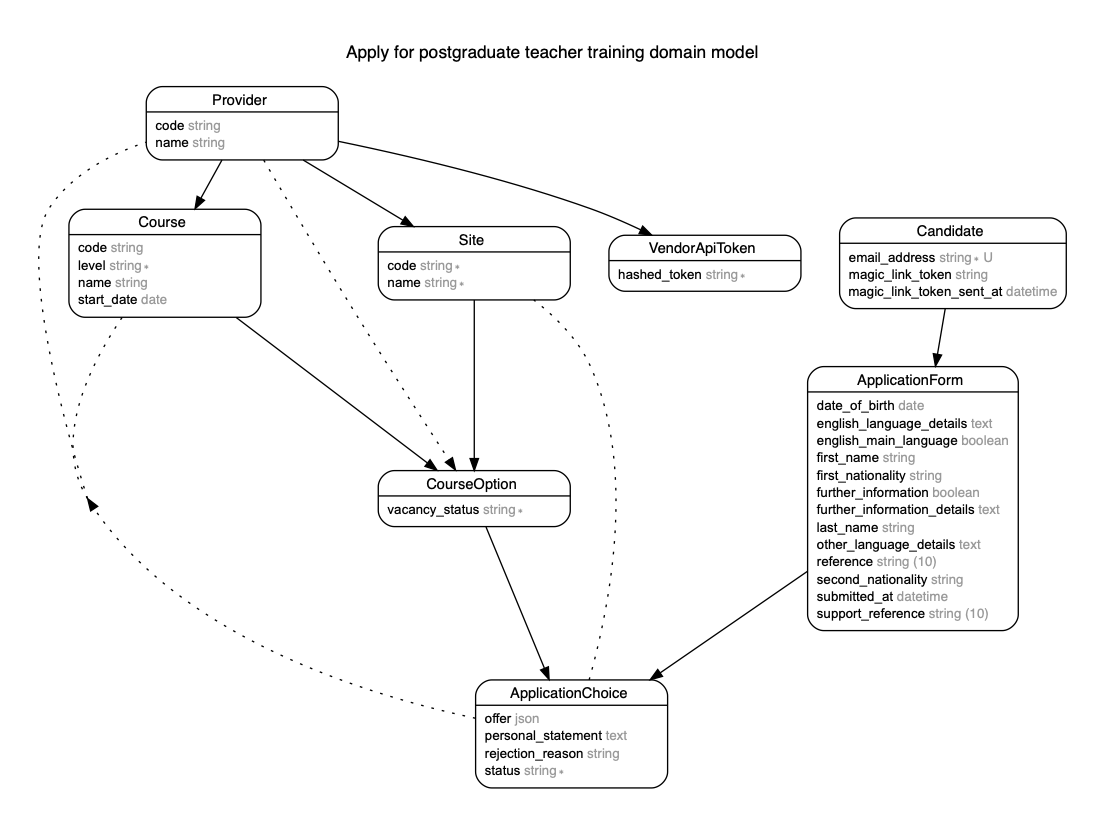
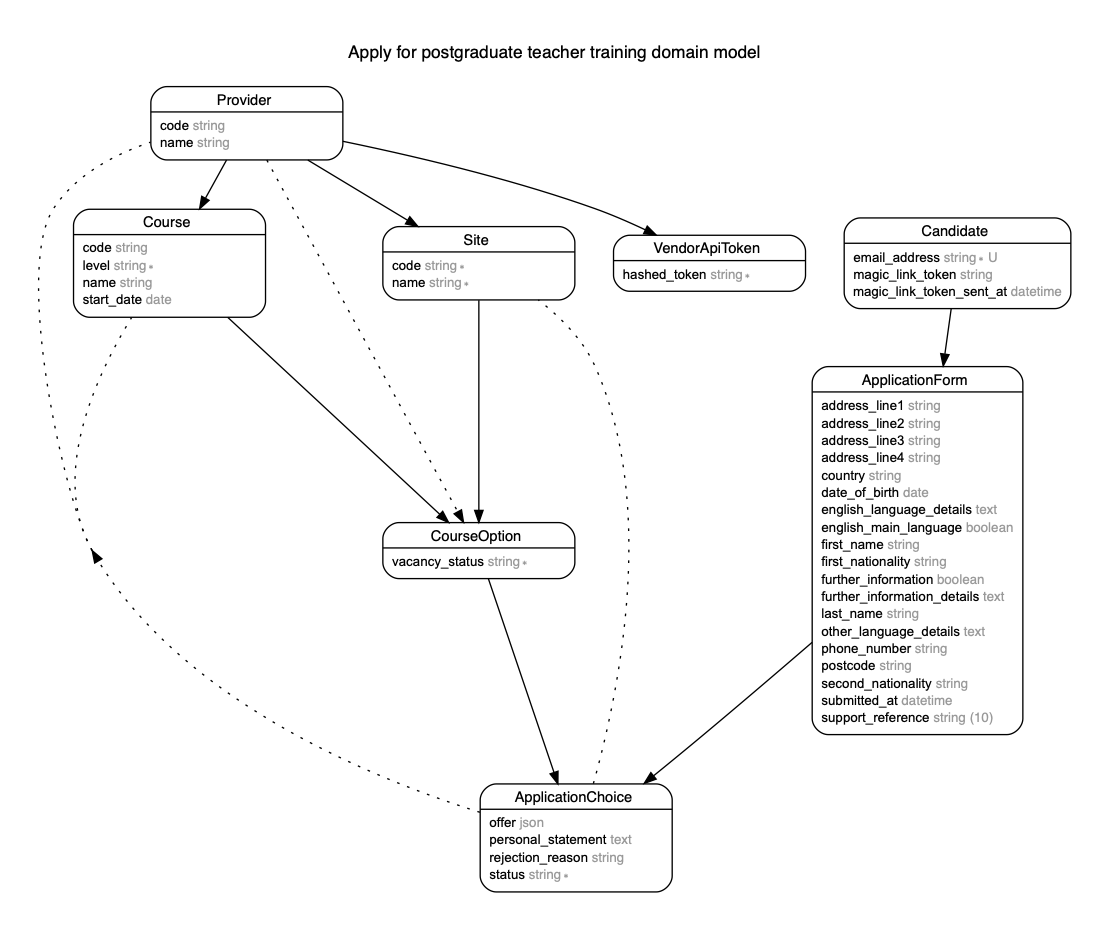
Add contact details to ApplicationForm

diff --git a/spec/factories.rb b/spec/factories.rb
@@ -18,6 +18,14 @@ FactoryBot.define do
       further_information { %w[true false].sample }
       further_information_details { Faker::Lorem.paragraph_by_chars(number: 300) }
 
+      phone_number { Faker::PhoneNumber.cell_phone }
+      address_line1 { Faker::Address.street_name }
+      address_line2 { Faker::Address.street_address }
+      address_line3 { Faker::Address.city }
+      address_line4 { Faker::Address.country }
+      country { Faker::Address.country_code }
+      postcode { Faker::Address.postcode }
+
       transient do
         application_choices_count { 3 }
       end

diff --git a/db/schema.rb b/db/schema.rb
@@ -43,6 +43,13 @@ ActiveRecord::Schema.define(version: 2019_10_23_151050) do
     t.date "date_of_birth"
     t.boolean "further_information"
     t.text "further_information_details"
+    t.string "phone_number"
+    t.string "address_line1"
+    t.string "address_line2"
+    t.string "address_line3"
+    t.string "address_line4"
+    t.string "country"
+    t.string "postcode"
     t.datetime "submitted_at"
     t.string "support_reference", limit: 10
     t.index ["candidate_id"], name: "index_application_forms_on_candidate_id"

diff --git a/db/migrate/20191022130104_add_contact_details_to_application_form.rb b/db/migrate/20191022130104_add_contact_details_to_application_form.rb
@@ -1,0 +1,11 @@
+class AddContactDetailsToApplicationForm < ActiveRecord::Migration[6.0]
+  def change
+    add_column :application_forms, :phone_number, :string
+    add_column :application_forms, :address_line1, :string
+    add_column :application_forms, :address_line2, :string
+    add_column :application_forms, :address_line3, :string
+    add_column :application_forms, :address_line4, :string
+    add_column :application_forms, :country, :string
+    add_column :application_forms, :postcode, :string
+  end
+end

diff --git a/spec/rails_helper.rb b/spec/rails_helper.rb
@@ -32,6 +32,8 @@ end
 
 Timecop.safe_mode = true
 
+Faker::Config.locale = 'en-GB'
+
 RSpec.configure do |config|
   # Remove this line if you're not using ActiveRecord or ActiveRecord fixtures
   config.fixture_path = "#{::Rails.root}/spec/fixtures"
